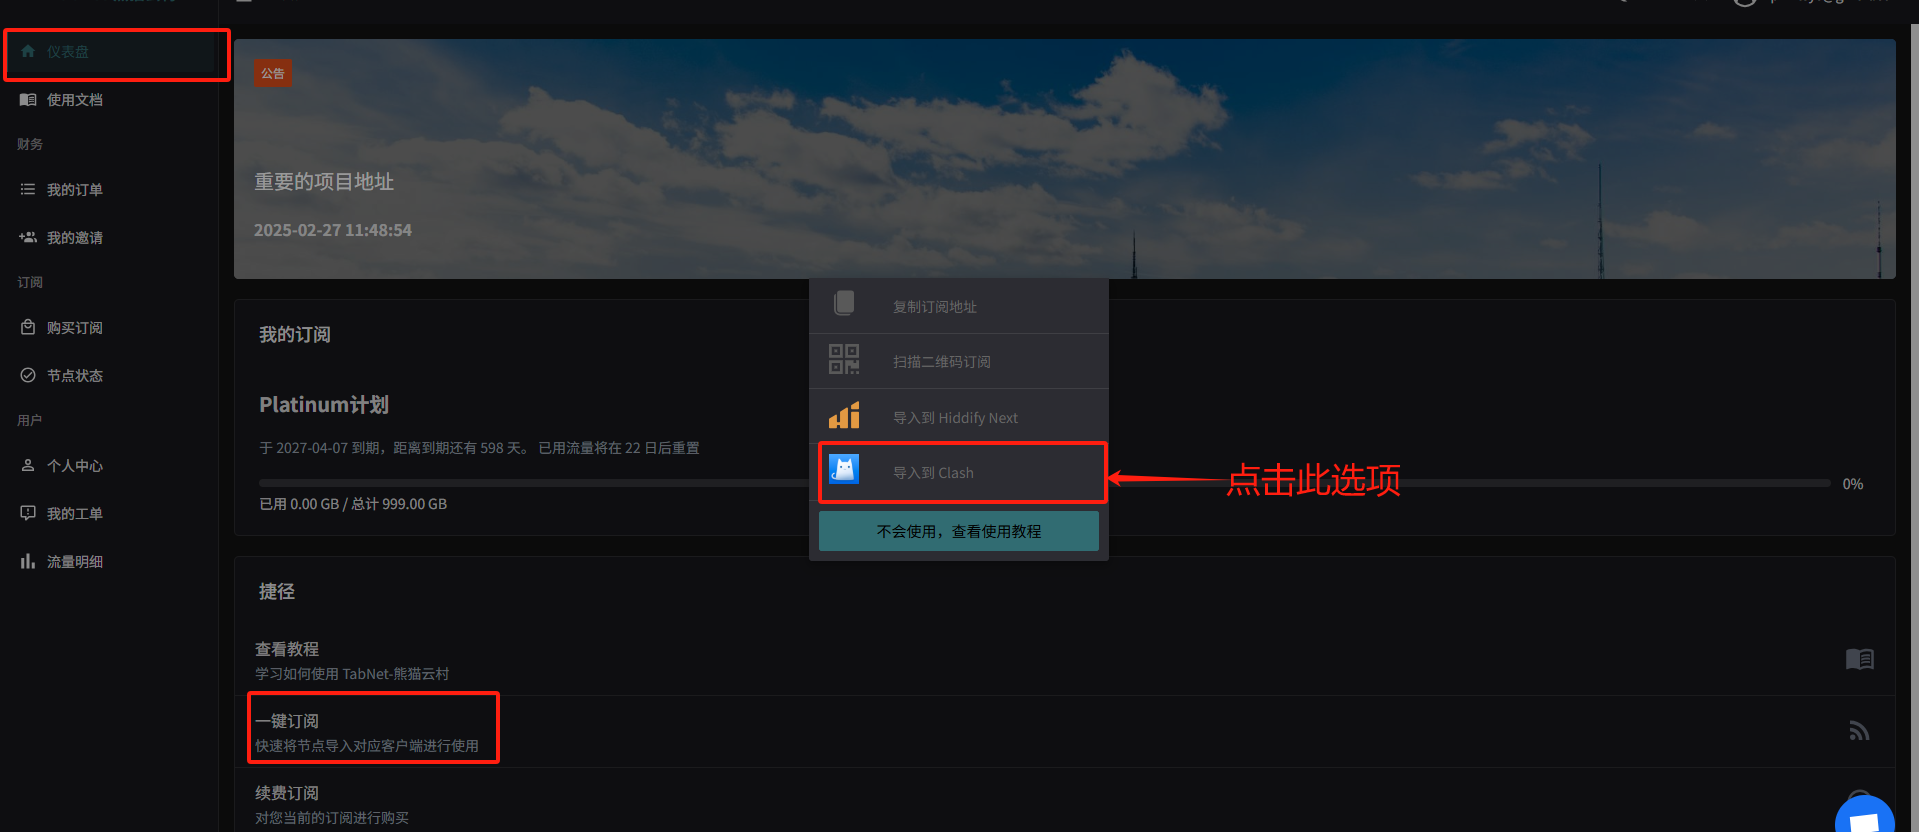
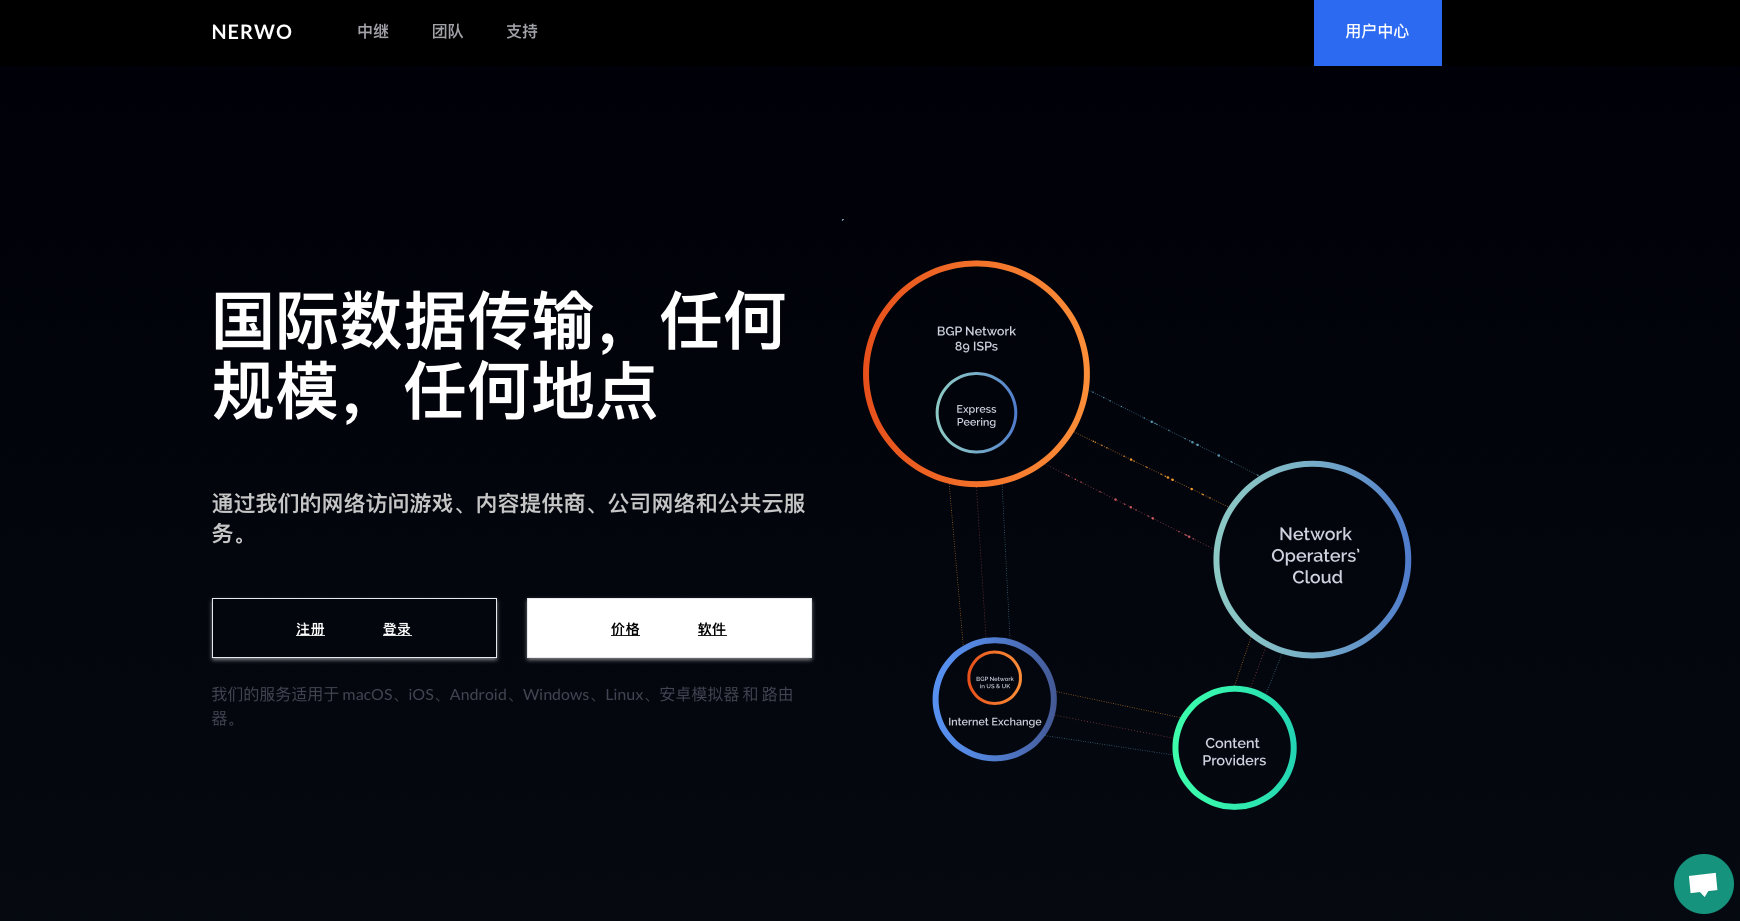
GITBOOK-38: No subject

diff --git a/windows/clash-for-windows-she-zhi-quan-ju-dai-li-jiao-cheng.md b/windows/clash-for-windows-she-zhi-quan-ju-dai-li-jiao-cheng.md
@@ -1,0 +1,61 @@
+# 🌐 Clash For Windows 设置全局代理教程
+
+### 1. 什么是分流/规则模式？
+
+Clash for Windows 默认使用 **分流/规则模式**。\
+分流模式的含义是：
+
+* 大陆常见网站或应用 → 使用本地网络直连
+* 国外网站或应用 → 使用代理服务器网络
+
+{% hint style="success" %}
+分流模式可以减少延迟、节省代理流量，但在某些情况下可能会导致部分应用或网页无法代理。
+{% endhint %}
+
+***
+
+### 2. 什么是全局模式？
+
+**全局模式** 表示：
+
+* 所有流量均通过代理服务器转发
+
+优点：
+
+* 可以保持 **更高的匿名性**
+* 确保所有应用均能正常代理
+
+缺点：
+
+* 访问大陆网站或应用时，可能会 **变慢**
+* 占用更多代理带宽
+
+{% hint style="warning" %}
+建议：仅在需要高匿名性或遇到分流模式下无法访问的问题时，开启全局模式。
+{% endhint %}
+
+***
+
+### 3. 开启全局代理模式
+
+1. 打开 Clash for Windows 主界面
+2. 点击左侧菜单中的 **「代理（Proxy）」**
+3. 在模式切换栏中选择 **「全局（Global）」**
+4. 从节点列表中选择你需要的代理节点
+5. 确认连接成功后，即可实现全局代理
+
+<figure><img src="../.gitbook/assets/image (1).png" alt=""><figcaption></figcaption></figure>
+
+***
+
+### 4. 使用建议
+
+* 建议日常使用 **分流/规则模式**，在需要时切换至 **全局模式**
+* 如果全局模式下访问国内网站速度较慢，可以临时切回分流模式
+* 切换模式后如遇异常，尝试重新连接或更新订阅
+
+***
+
+{% hint style="success" %}
+现在，你已经成功学会如何在 **Clash for Windows** 中设置全局代理模式。
+{% endhint %}

diff --git a/windows/clash-for-windows.md b/windows/clash-for-windows.md
@@ -52,7 +52,7 @@ Clash 支持两种方式导入订阅：**手动导入** 和 **一键导入**。
 
 1. 复制个人订阅地址
 
-<figure><img src="../.gitbook/assets/image (1).png" alt="请按照图示操作"><figcaption><p>请按照图示操作</p></figcaption></figure>
+<figure><img src="../.gitbook/assets/image (1) (1).png" alt="请按照图示操作"><figcaption><p>请按照图示操作</p></figcaption></figure>
 
 2. 粘贴到clash软件内并下载订阅文件(如更新错误，请多次尝试下载） 如下图
 
@@ -66,7 +66,7 @@ Clash 支持两种方式导入订阅：**手动导入** 和 **一键导入**。
 
 1. 选中下方图片的选项即可自动跳转到clash，**之后请重复上方的第三步骤，选中新订阅标签**
 
-<figure><img src="../.gitbook/assets/image (2).png" alt=""><figcaption></figcaption></figure>
+<figure><img src="../.gitbook/assets/image (2) (1).png" alt=""><figcaption></figcaption></figure>
 
 
 

diff --git a/SUMMARY.md b/SUMMARY.md
@@ -12,6 +12,7 @@
 * [💻 TabNet For Windows 定制客户端使用教程](windows/tabnet-for-windows.md)
 * [💻 熊猫云村 For Windows 定制客户端使用教程](windows/xiongmaoyuncun-for-windows.md)
 * [💻 Clash For Windows 使用以及更新教程](windows/clash-for-windows.md)
+* [🌐 Clash For Windows 设置全局代理教程](windows/clash-for-windows-she-zhi-quan-ju-dai-li-jiao-cheng.md)
 * [⚙ Clash For Windows 更新订阅教程](windows/clash-for-windows-geng-xin-ding-yue-jiao-cheng.md)
 * [♻ Clash For Windows 重新配置教程](windows/clash-for-windows-zhong-xin-pei-zhi-jiao-cheng.md)
 
